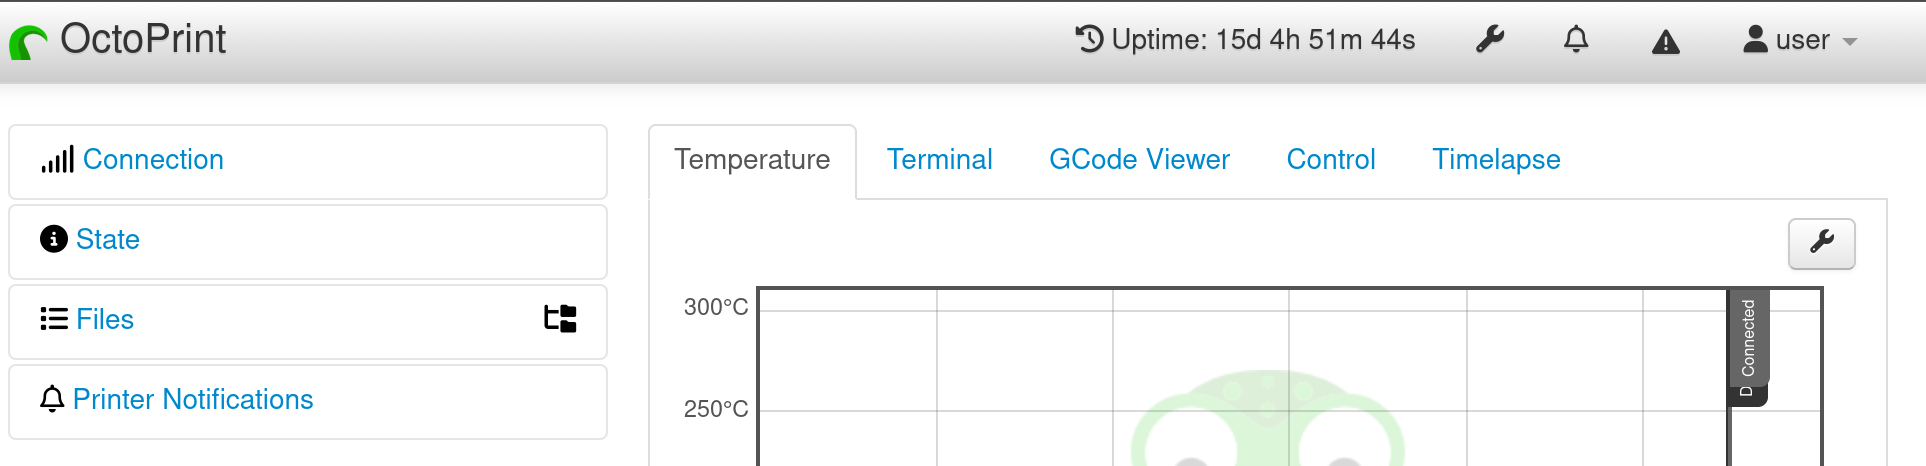
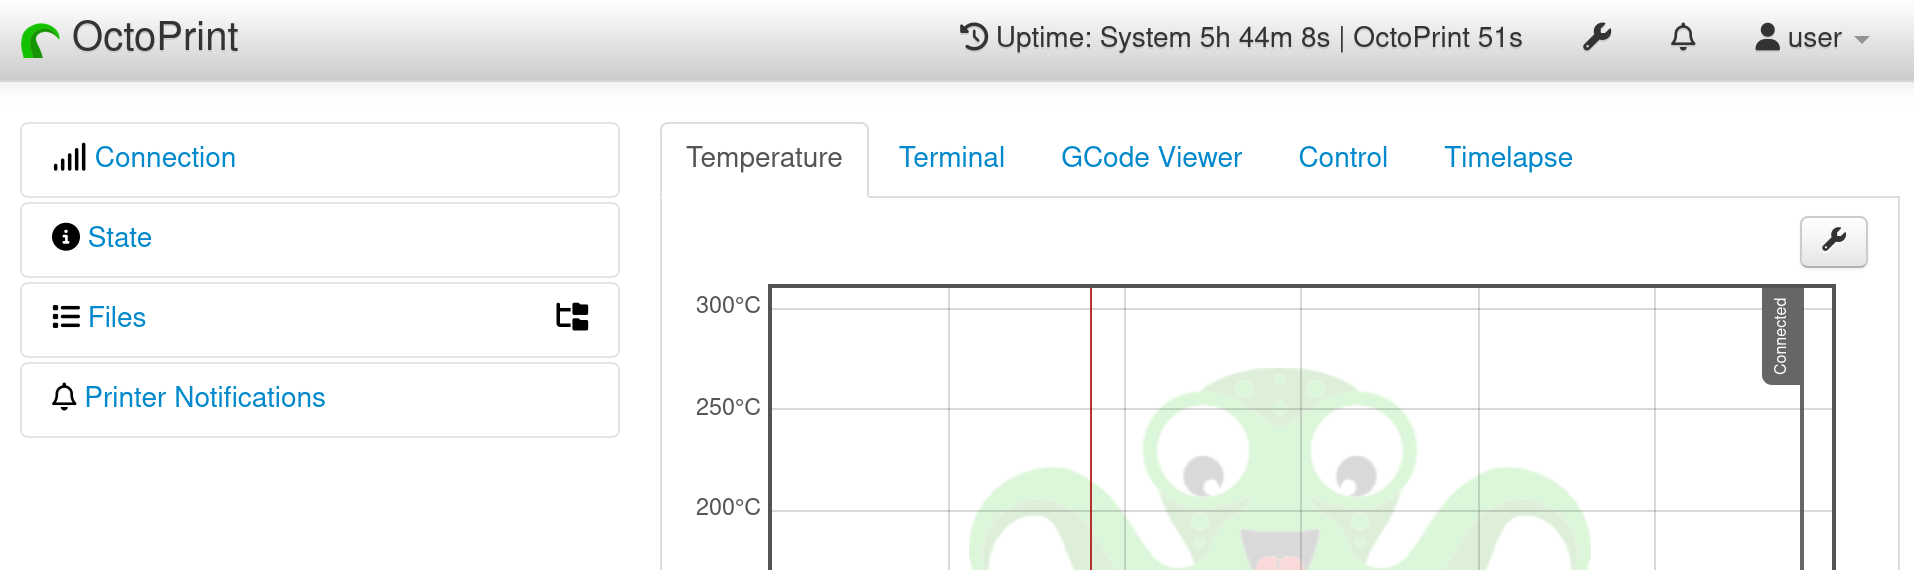
fix: update documentation to reflect both system and OctoPrint process uptime features

diff --git a/README.md b/README.md
@@ -16,7 +16,7 @@
 
 <!-- markdownlint-disable MD033-->
 <strong>
-  Lightweight OctoPrint plugin that displays the host system uptime in the navbar and exposes a small JSON API for tooling and integrations.<br />
+  Lightweight OctoPrint plugin that displays both host system and OctoPrint process uptime in the navbar and exposes a small JSON API for tooling and integrations.<br />
 </strong>
 </br />
 <img src="assets/img/uptime_navbar.png" alt="OctoPrint Uptime Navbar" width="666" />
@@ -24,9 +24,9 @@
 
 ## Highlights
 
-- 🖥 Navbar widget with configurable display formats (full / dhm / dh / d)
+- 🖥 Navbar widget displaying system and OctoPrint uptime with configurable formats (full / dhm / dh / d)
 - 🔒 Small read‑only API at `/api/plugin/octoprint_uptime` (OctoPrint auth enforced)
-- ⚙ Configurable polling interval
+- ⚙ Configurable polling interval and optional compact toggle mode
 
 ## Installation
 
@@ -55,11 +55,11 @@ The `releases/latest` URL always points to the newest stable release.
 
 ## How It Works
 
-The navbar widget polls the plugin API and shows a formatted uptime string. The tooltip displays the calculated start datetime (localized).
+The navbar widget polls the plugin API and displays both system and OctoPrint process uptime as formatted strings. The tooltip shows the calculated start datetimes for each enabled uptime type (localized).
 
 ### Note about uptime retrieval
 
-The plugin determines system uptime using either `/proc/uptime` on Linux systems or the Python library `psutil`. `psutil` is installed automatically as a dependency. If neither method can provide uptime, the plugin API returns `uptime_available: false` along with a human‑readable `uptime_note`.
+The plugin determines system uptime using either `/proc/uptime` on Linux systems or the Python library `psutil`; OctoPrint process uptime is retrieved via the OctoPrint API. `psutil` is installed automatically as a dependency. If system uptime cannot be determined, the plugin API returns `uptime_available: false` along with a human‑readable `uptime_note`.
 
 ## Configuration
 

diff --git a/extras/octoprint_uptime.md b/extras/octoprint_uptime.md
@@ -3,12 +3,12 @@ layout: plugin
 
 id: octoprint_uptime
 title: OctoPrint-Uptime
-description: Displays the host system uptime in the OctoPrint navbar and provides a small JSON API for integrations.
+description: Displays the host system and OctoPrint process uptime in the navbar and provides a JSON API for integrations.
 authors:
   - Ajimaru
 license: AGPLv3
 
-date: 2026-02-01
+date: 2026-02-18
 
 homepage: https://ajimaru.github.io/OctoPrint-Uptime/
 source: https://github.com/Ajimaru/OctoPrint-Uptime
@@ -38,13 +38,13 @@ compatibility:
   python: ">=3.8,<3.14"
 ---
 
-OctoPrint-Uptime is a lightweight plugin that displays the system uptime of your OctoPrint server directly in the navbar. Additionally, it provides a small, authenticated JSON API that can be queried by external tools or scripts.
+OctoPrint-Uptime is a lightweight plugin that displays both the host system uptime and OctoPrint process uptime in the navbar. Additionally, it provides a small, authenticated JSON API that can be queried by external tools or scripts.
 
 **Features:**
 
+- Display system and/or OctoPrint process uptime independently or with optional compact alternating mode
 - Configurable display format (full, dhm, dh, d)
 - Adjustable polling interval
-- Optional: Systeminfo bundle for support purposes
 - Secure (authenticated API, no unauthorized access)
 - Translatable (i18n ready, German/English)
 

diff --git a/docs/index.md b/docs/index.md
@@ -4,7 +4,7 @@ This directory contains the documentation for the [OctoPrint-Uptime](https://git
 
 ## Overview
 
-OctoPrint-Uptime is a plugin for OctoPrint that displays the system uptime in the About → System dialog and provides an API endpoint for retrieving uptime information. It supports internationalization (English/German), configurable polling intervals, and integration with the OctoPrint frontend.
+OctoPrint-Uptime is a plugin for OctoPrint that displays both system and OctoPrint process uptime in the navbar and About → System dialog, and provides an API endpoint for retrieving uptime information. It supports internationalization (English/German), configurable polling intervals, optional compact toggle mode, and integration with the OctoPrint frontend.
 
 ## Quick Start
 
@@ -26,8 +26,8 @@ OctoPrint-Uptime is a plugin for OctoPrint that displays the system uptime in th
 
 ### Usage
 
-- The system uptime is shown in the About → System dialog and optionally in the navigation bar.
-- API endpoint: `/api/plugin/octoprint_uptime`
+- System and OctoPrint process uptime can be displayed independently or together in the navbar (with optional compact alternating mode).
+- API endpoint: `/api/plugin/octoprint_uptime` returns both system and OctoPrint uptime values.
 - Configuration: Settings → Plugin OctoPrint-Uptime
 
 ## API Example

diff --git a/docs/getting-started.md b/docs/getting-started.md
@@ -33,11 +33,18 @@ mkdocs serve
 The repository helper scripts are POSIX shell scripts and expect a Bash
 environment. On Windows prefer running the helper scripts from Git Bash.
 
-When working on translations during development, use the repository helper which wraps `pybabel` and copies compiled catalogs into the package for runtime testing.
+When working on translations during development, use the repository helper script to manage translations.
 
-If a commit fails due to translations being out of sync, run the compile command above, add the changed PO files, and re-commit.
+Example:
 
-Note: the repository's translations pre-commit check is non-destructive, it reports when PO files would change and fails the commit so you can run the update step manually.
+```bash
+# Compile and clean translations
+FORCE_CLEAN=true ./.development/compile_translations.sh --all
+```
+
+If a commit fails due to translations being out of sync, run the compile command above, add the changed PO/MO files, and re-commit.
+
+Note: the repository's translations pre-commit check is non-destructive; it reports when PO/MO files would change and fails the commit so you can run the update step manually.
 
 ## Notes
 

diff --git a/docs/architecture/overview.md b/docs/architecture/overview.md
@@ -4,8 +4,8 @@ This page gives a concise overview of the main components of the OctoPrint-Uptim
 
 ## Components
 
-- Backend: A small Python module that exposes a plugin API endpoint at `/api/plugin/octoprint_uptime` and helper functions for formatting uptime values.
-- Frontend: A Knockout.js ViewModel that queries the plugin API periodically and updates the navbar and About → System dialog UI.
+- Backend: A small Python module that exposes a plugin API endpoint at `/api/plugin/octoprint_uptime` (returns both system and OctoPrint process uptime) and helper functions for formatting uptime values.
+- Frontend: A Knockout.js ViewModel that queries the plugin API periodically and updates the navbar display with configurable uptime values and optional compact toggle mode.
 - Settings: Plugin settings control the polling interval, which uptime values
   are shown in the navbar (`show_system_uptime`, `show_octoprint_uptime`),
   whether compact alternating mode is active (`compact_display`), and the

diff --git a/docs/architecture/octoprint-integration.md b/docs/architecture/octoprint-integration.md
@@ -13,7 +13,9 @@ Use OctoPrint's JavaScript helper to query the plugin API:
 
 ```js
 OctoPrint.simpleApiGet("octoprint_uptime").done(function (data) {
-  // data.seconds, data.uptime, data.uptime_available, data.uptime_note
+  // data.seconds, data.uptime (system),
+  // data.octoprint_seconds, data.octoprint_uptime,
+  // data.uptime_available, data.uptime_note
 });
 ```
 
